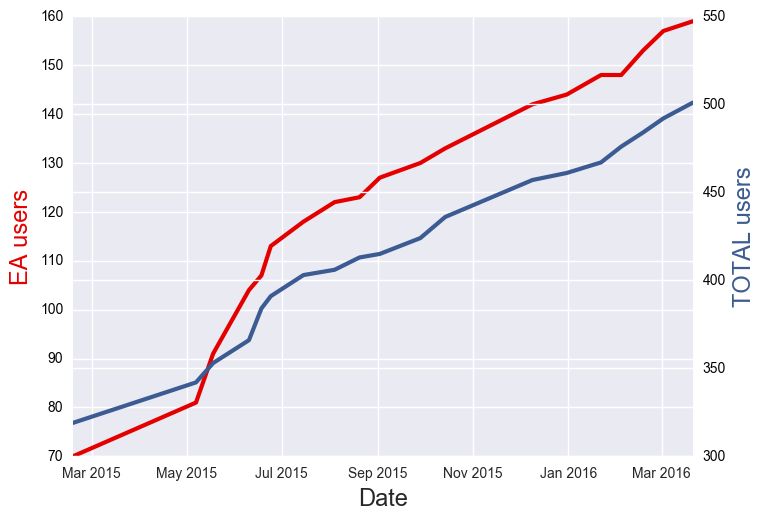
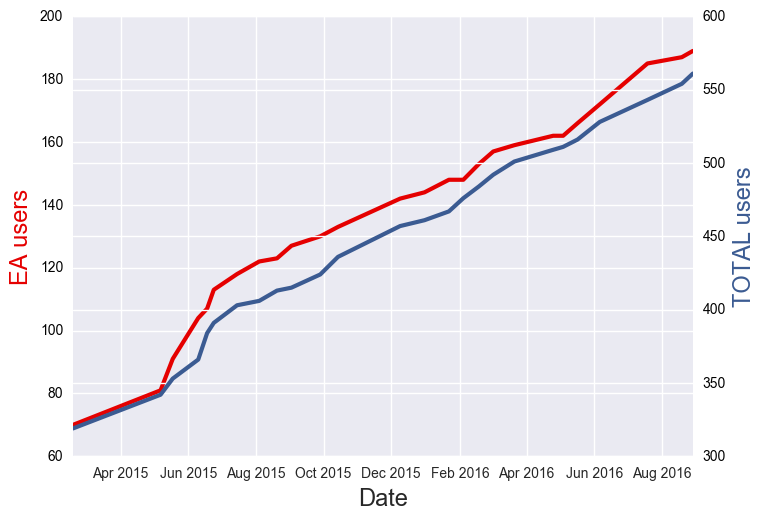
update Argonne Talk

diff --git a/talks/Argonne_Chicagoland_2016/index.html b/talks/Argonne_Chicagoland_2016/index.html
@@ -28,10 +28,27 @@
                 <p> Matias Carrasco Kind @ NCSA/UIUC</p>
             </section>
 
+            <section data-menu-title="Thanks to">
+
+            <h2> Thanks to...</h2>
+            <ul >
+            <li>  <h3>Weixiang Yu (soon to be looking for grad-school)</h3></li>
+            <li>  <h3>Di Wen</h3></li>
+            <li>  <h3>Sahand Hariri</h3></li>
+            <li>  <h3>Alex Drlica-Wagner</h3></li>
+            <li>  <h3>Chris Pond</h3></li>
+            <li>  <h3>You?</h3></li>
+            <li>  <h3>...</h3></li>
+            </ul>
+
+
+            </section>
+
             <section data-menu-title="Outline">
             <h1> Outline</h1>
             <ul >
             <li>  <h3><a href="#/ea">easyaccess</a></h3></li>
+            <li>  <h3><a href="#/desdm">DESDM stats</a></h3></li>
             <li>  <h3><a href="#/deslabs">DES Labs</a></h3></li>
             <li>  <h3><a href="#/jupyter">JupyterHub + DESDM</a></h3></li>
             <li>  <h3><a href="#/cutouts">DES image cutouts</a></h3></li>
@@ -71,8 +88,8 @@
             <li style="font-size:40px">Completely open source and written in python</li>
             <li style="font-size:40px">Write tables in csv, tab, fits and hdf5 formats</li>
             <li style="font-size:40px">Load sql queries directly from a file </li>
-            <li style="font-size:40px">Load table directly in to DB in one step</li>
-            <li style="font-size:40px">Can be imported as python module</li>
+            <li style="font-size:40px">Load table directly in to DB in one step, no memory issues</li>
+            <li style="font-size:40px">Can be imported as python module (py2/py3)</li>
             <li style="font-size:40px">Tables are handled and displayed using pandas</li>
             <li style="font-size:40px">Can run python functions inside query (beta)</li>
             <li style="font-size:40px">Many more...</li>
@@ -87,31 +104,11 @@
             <li style="font-size:40px"> Using pip or easy_install</li>
             <li style="font-size:40px"> Using EUPS @ DESDM </li>
             <li style="font-size:40px"> Pre-installed in Docker Image (and run outside the container)</li>
+            <li style="font-size:40px"> <span style="color:green;">New!</span> Install with <a href="http://conda.pydata.org/docs/install/quick.html", target="_blank">conda</a></li>
             </ul>
-            </section>
-
-            <section data-menu-title="Users">
-            <section data-menu-title="Users">
-            <h1> DB Users</h1>
-            <div>
-             <p style="float: left;"><img src="images/ea_users.png" border="1px"></p>
-             <br>
-            <p align="left"> Doubled number of users since easyaccess</p><br>
-            <p align="left"> More than 150 users with easyaccess with different activity levels</p><br>
-            <p align="left"> Feedback via github issues, stack-overflow-like questions, email list and personal inquiries</p>
-            </div>
-            </section>
-            <section>
-            <h1> DB Quotas </h1>
-            <div>
-             <p style="float: left;"><img src="images/quota.png" border="1px"></p>
-             <br>
-            <p align="left"> Personal space actively used and constantly increasing</p><br>
-            <p align="left"> People create and share tables with one command </p><br>
-            <p align="left"> ~ 4TB in personal space, tables and index tables included </p>
-            </div>
-
-            </section>
+             <div> 
+            <p style="font-family: monospace">conda install easyaccess -c mgckind</p>
+             </div>
             </section>
             
             <section data-menu-title="Demo">
@@ -138,16 +135,60 @@
 
             </section>
 
-            <!--
-            <section data-menu-title="DES Labs" id="deslabs" data-background="#ffffff">
-            <a href="http://deslabs.ncsa.illinois.edu/" target="_blank"><img src='images/deslabs.png' width="800px"></img></a>
-            <h4 style="color: black">Experimental UI projects being developed</h4>
-            <a href="http://deslabs.ncsa.illinois.edu/" target="_blank"><p style="color: black; font-size:17px">deslabs.ncsa.illinois.edu</p></a>
+
+            <section data-menu-title="DESDM" id="desdm">
+             
+            <section>
+            <h2> Some DESDM statistics</h2>
             </section>
-            -->
+
+            <section>
+            <h2> DESDM New accounts</h2>
+            <div>
+             <p style="float: left;"><img src="images/DESDM_accounts.png" width="800px"  border="1px"></p>
+             <br>
+            <p align="left"> More than 220 New users since new On-boarding!</p><br>
+            <p align="left"> New DES Member? Check <a href="https://cdcvs.fnal.gov/redmine/projects/des/wiki/DESwikiAccess" target_"_blank"> Here</a></p><br>
+            <p align="left"> Several Services: DB, Confluence, HipChat, BitBucket, Stackoverflow</p><br>
+            </div>
+            </section>
+
+
+            <section >
+            <h2> DB Users</h2>
+            <div>
+             <p style="float: left;"><img src="images/ea_users.png" border="1px"></p>
+             <br>
+            <p align="left"> Doubled number of users since easyaccess</p><br>
+            <p align="left"> More than 180 users with easyaccess with different activity levels</p><br>
+            <p align="left"> Feedback via github issues, stack-overflow-like questions, email list and personal inquiries</p>
+            </div>
+            </section>
+
+            <section>
+            <h2> DB Quotas </h2>
+            <div>
+             <p style="float: left;"><img src="images/quota.png" border="1px"></p>
+             <br>
+            <p align="left"> Personal space actively used and constantly increasing</p><br>
+            <p align="left"> People create and share tables with one command </p><br>
+            <p align="left"> ~ 4.5 TB in personal space, tables and index tables included </p>
+            </div>
+            </section>
+
+            <section>
+            <h3> SV Release </h3>
+            <p>https://des.ncsa.illinois.edu/internal/summary</p>
+ <iframe style="border: 1px solid green" width="100%" height="600px" src="https://des.ncsa.illinois.edu/internal/summary"></iframe>
+
+            </section>
+
+
+            </section>
+            
 
              <section data-menu-title="DES Labs" id="deslabs">
-            <h5>Experimental UI projects being developed</h5>
+            <h5>Experimental UI projects being developed (Openstack + Docker)</h5>
              <iframe width="100%" height="700px" src="http://deslabs.ncsa.illinois.edu/"></iframe>
             <a href="http://deslabs.ncsa.illinois.edu/" target="_blank"><p style="font-size:17px">deslabs.ncsa.illinois.edu</p></a>
 
@@ -155,7 +196,7 @@
 
 
             <section data-menu-title="JupyterHub" id="jupyter" >
-            <h1>JupyterHub and easyaccess</h1>
+            <h2>JupyterHub + easyaccess + DS9</h2>
             <div class="flex-container">
             <div>
              <img src="images/logo.png" border="1px"><br>
@@ -168,8 +209,9 @@
             <li>Running in OpenStack ("The Cloud") </li>
             <li>Easy setup (Running from Docker container)</li>
             <li>Easyaccess and other tools installed</li>http://141.142.236.167:8000/hub/
-            <li>Local JS9 integration  </li>
-            <li>Still in beta mode </li>
+            <li>Local <a href="http://js9.si.edu/" target="_blank">JS9</a> (DS9 in Javascript) integration  </li>
+            <li>Still in beta mode, planning to scale up </li>
+            <li>Open to DES collaborators </li>
             </ul>
             </div>
             </div>
@@ -177,15 +219,41 @@
 
             </section>
 
+
+            
+            <section data-menu-title="Cutouts services" id="cutouts">
+
+            <section>
+            <h1> Online Cutout Services</h1>
+            <p style="color: #66BB6A ">descut.cosmology.illinois.edu</p>
+
+            <ul style="list-style-type:square">
+            <li><h3> Cutout Services for both: Coadd images and Single Epoch </h3></li>
+            <li><h3> Nice REST API so can be also accessed from e.g. <i>python</i> </h3></li>
+            <li><h3> Almost production-like services with GPFS mounted</h3></li>
+            <li><h3> Soon to be "oficcially" released, we are merging both services</h3></li>
+            <li><h3> For now check <a href="http://descut.cosmology.illinois.edu:8999" target="_blank">Coadd cutouts</a> and <a href="http://descut.cosmology.illinois.edu:8000" target="_blank">Single Exposure Cutouts</a></h3></li>
+
+            </ul> <br><br>
+            <a style=" border: 1px solid tomato ; padding: 5px;" href="http://descut.cosmology.illinois.edu:8999" target="_blank">Live demo!</a>
+            </section>
+
+            <section>
+             <h3> Coadd image cutouts example</h3>
+             <iframe style="border: 1px solid green; background:white;" width="100%" height="600px" src="http://descut.cosmology.illinois.edu:8999"></iframe>
+            </section>
+
+            </section>
+
             <section data-menu-title="Conclusions" id="conclusions">
             <h1>Conclusions</h1>
             <ul>
-            <li><h3>Tools being developed to make data access easier </h3></li>
-            <li><h3>Opensource and integrated software </h3></li>
-            <li><h3>Advantages of Docker + OpenStack</h3></li>
-            <li><h3>Bring software to the data!</h3></li>
+            <li class="fragment"><h3>Tools being developed to make data access easier </h3></li>
+            <li class="fragment"><h3>Easyaccess, Cutouts, Jupyter, Js9, etc...</h3></li>
+            <li class="fragment"><h3>Opensource and integrated software </h3></li>
+            <li class="fragment"><h3>Bring software to the data!</h3></li>
+            <li class="fragment"><h3>Want to help? Want some infrastructure? Let me know!</h3></li>
             </ul>
-
             </section>
 
 

diff --git a/talks/Argonne_Chicagoland_2016/my_reveal.css b/talks/Argonne_Chicagoland_2016/my_reveal.css
@@ -55,3 +55,11 @@
   font-size: 3em;
   text-align: center;
 }
+
+h1.mytitle{
+    color: #66BB6A;
+}
+
+h2.mytitle{
+    color: #66BB6A;
+}
